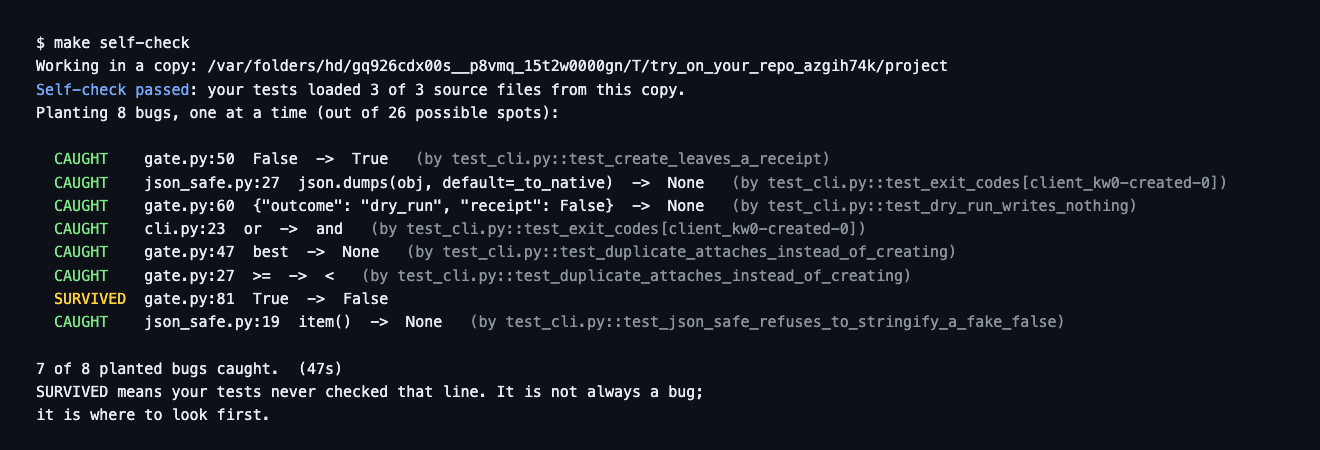
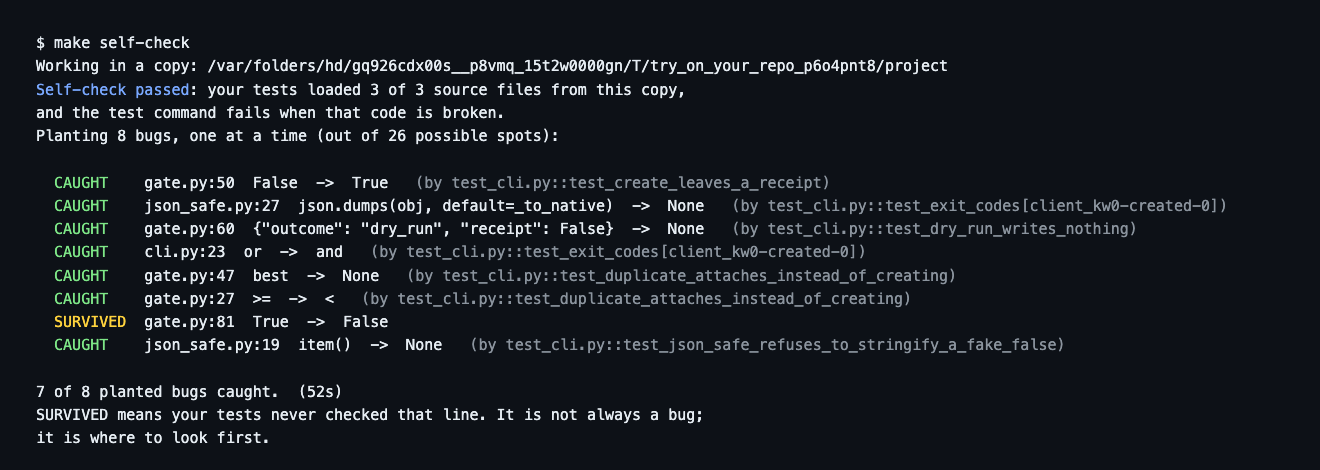
try_on_your_repo: self-check also requires the test command to fail when the loaded code is broken; trials re-run; image re-rendered

Changed region(s): [[0.0311, 0.3422, 0.9318, 0.7467], [0.0311, 0.0622, 0.7144, 0.3111], [0.0311, 0.8089, 0.528, 0.9644]]

diff --git a/gate-mutation-example/try_on_your_repo.py b/gate-mutation-example/try_on_your_repo.py
@@ -381,7 +381,27 @@ def main(argv: list[str] | None = None) -> int:
             print("Common causes: the project is installed as a package (pip install / pip install -e),")
             print("or the tests never import it. Run your tests against the source folder, then try again.")
             return 3
-        print(f"Self-check passed: your tests loaded {len(usable)} of {len(checked)} source files from this copy.")
+        # The test command must also be able to FAIL. Break every file the tests loaded; if the
+        # command still reports success (a runner that ignores the result, a wrapper that
+        # always exits 0), every planted bug would look like a survivor.
+        broken: dict[str, bytes] = {}
+        for rel in usable:
+            path = os.path.join(root, rel)
+            with open(path, "rb") as f:
+                broken[path] = f.read()
+            with open(path, "wb") as f:
+                f.write(b'raise ImportError("try_on_your_repo self-check")\n' + broken[path])
+        result, _ = run_tests(a.test, root, a.timeout)
+        for path, raw in broken.items():
+            with open(path, "wb") as f:
+                f.write(raw)
+        if result == "pass":
+            print("Self-check failed: your test command still reports success when every source file")
+            print("your tests load is broken. A planted bug could not make it fail. Make the command")
+            print("exit non-zero when a test fails, then try again.")
+            return 3
+        print(f"Self-check passed: your tests loaded {len(usable)} of {len(checked)} source files from this copy,")
+        print("and the test command fails when that code is broken.")
         if skipped:
             shown = ", ".join(skipped[:8]) + (f", and {len(skipped) - 8} more" if len(skipped) > 8 else "")
             print(f"Left out, because your tests did not load them from this copy: {shown}")

diff --git a/gate-mutation-example/test_try_on_your_repo.py b/gate-mutation-example/test_try_on_your_repo.py
@@ -440,3 +440,25 @@ def test_caught_by_names_the_test_behind_pytest_subtest_failures():
     assert tool.caught_by(fixture("pytest_subtests_fail_color.txt")) == (
         "tests/test_modern_word_boundary.py::ModernWordBoundaryTests::"
         "test_replacement_delimiters_are_budgeted_and_preserved")
+
+
+# 6. the test command must be able to FAIL (kept from the old self-check) ---------
+
+def test_a_test_command_that_always_exits_0_is_refused(tmp_path, capsys):
+    (tmp_path / "calc.py").write_text(MODULE)
+    (tmp_path / "test_calc.py").write_text(
+        "import unittest\nfrom calc import is_adult\n\n"
+        "class T(unittest.TestCase):\n"
+        "    def test_edges(self):\n"
+        "        self.assertTrue(is_adult(18))\n"
+        "        self.assertFalse(is_adult(17))\n")
+    # Loads and runs the tests, then ignores the result: exit code is always 0.
+    (tmp_path / "runner_test.py").write_text(
+        "import unittest\n"
+        "unittest.TextTestRunner().run(unittest.defaultTestLoader.discover('.', pattern='test_*.py'))\n")
+    before = snapshot(tmp_path)
+    assert tool.main([str(tmp_path), "--test", f"{sys.executable} runner_test.py"]) == 3
+    out = capsys.readouterr().out
+    assert "Self-check failed" in out and "still reports success" in out
+    assert not planted_lines(out)
+    assert snapshot(tmp_path) == before

diff --git a/gate-mutation-example/TRIALS.md b/gate-mutation-example/TRIALS.md
@@ -1,34 +1,22 @@
 # Trials of try_on_your_repo.py
 
 Real runs, recorded as printed. Run 2026-11-13 on branch `agent-features`, after the red-team fixes
-(commit 027b2f1 plus the subtest-name fix that the python-slugify run exposed). Tool run with Python 3.12.13;
-outside projects were shallow clones (`--depth 1`), each tested in its own venv (pytest 9.2.0).
+(commits 027b2f1 and 684375c, plus the "test command must be able to fail" self-check step added after them).
+Tool run with Python 3.12.13; outside projects were shallow clones (`--depth 1`), each tested in its own venv (pytest 9.2.0).
+Each outside project was run again after that last step. The caught counts and the exit codes were the same each time; the one difference (3 unnamed "by" lines) is described below.
 
 | Project | Command (after the tool's path and project) | Result | Time |
 |---|---|---|---|
-| this repo's `gate-mutation-example` (cli.py, gate.py, json_safe.py) | `make self-check` | 7 of 8 planted bugs caught, each line names its test; survivor `gate.py:81` (`"receipt": True` on the attached path, no test asserts it). Self-check: 3 of 3 files loaded from the copy | 47 s (the suite now includes the tool's own tests, so each run is longer than the 5-6 s recorded before these fixes) |
-| python-slugify @ 35aca63 | `--test "<venv>/bin/python -m pytest -q -x tests" --max 10` | 9 of 10 caught. Survivor: `tools/check_algorithms.py:40` `False -> True`. Self-check: 8 of 9 files loaded from the copy; `tools/check_dist.py` left out and named | 5 s |
+| this repo's `gate-mutation-example` (cli.py, gate.py, json_safe.py) | `make self-check` | 7 of 8 planted bugs caught, each line names its test. Survivor: `gate.py:81` (`"receipt": True` on the attached path, no test asserts it). Self-check: 3 of 3 files loaded from the copy, and the command fails when the code is broken | 52 s (the suite now includes the tool's own tests, and the self-check runs the suite 3 times before planting, so this is longer than the 5-6 s recorded before these fixes) |
+| python-slugify @ 35aca63 | `--test "<venv>/bin/python -m pytest -q -x tests" --max 10` | 9 of 10 caught. Survivor: `tools/check_algorithms.py:40` `False -> True`. Self-check: 8 of 9 files loaded from the copy; `tools/check_dist.py` left out and named | 4 s |
 | humanize @ a950045, installed with `pip install -e .` | `--test "<venv>/bin/python -m pytest -q -x --benchmark-disable tests" --max 10` | **Exit 3, nothing planted.** "Self-check failed: your tests did not load any source file from this copy." The editable install makes `import humanize` resolve to the original `src/`, not the copy | not timed (stops before planting) |
 | humanize, same venv, copy's `src` first on the path | `--test "env PYTHONPATH=src <venv>/bin/python -m pytest -q -x --benchmark-disable tests" --max 10` | 10 of 10 caught. Self-check: 7 of 7 files loaded from the copy | 7 s |
 
 What the runs showed:
 
-- **python-slugify sets `addopts = "--color=yes"`** in its `pyproject.toml`, which beats `NO_COLOR`/`PY_COLORS`.
-
-  The colour codes are stripped from the output instead, so every "by" name came out clean.
-
-- **First python-slugify run printed `(by (test name not in output))` on 3 lines.** pytest 9 reports failed
-
-  subtests as `SUBFAILED(params) path::test - msg`. `caught_by` did not know that form. Fixed, with a test on
-  the real captured output (`fixtures/pytest_subtests_fail_color.txt`); the re-run above has all 9 names.
-
-- **4 of the 10 planted bugs in python-slugify landed in `tools/`** (dev scripts, not the library) because the
-
-  tool treats every non-test `.py` file as source. `--paths slugify` would have limited it to the library. Not changed.
-
-- **My first humanize command failed its baseline** because I passed `-p no:benchmark`, which its tests need.
-
-  The tool printed the last 20 lines of the test output (`fixture 'benchmark' not found`), which made the cause obvious.
-
-- humanize's own tests need `--benchmark-disable` to run quickly; the tool does not know that, so it has to be in `--test`.
+- python-slugify sets `addopts = "--color=yes"` in its `pyproject.toml`, which beats `NO_COLOR` and `PY_COLORS`. The colour codes are stripped from the output instead, so every "by" name came out clean.
+- The first python-slugify run printed `(by (test name not in output))` on 3 lines. pytest 9 reports failed subtests as `SUBFAILED(params) path::test - msg`, and `caught_by` did not know that form. Fixed, with a test on the real captured output (`fixtures/pytest_subtests_fail_color.txt`). Both later runs have a name on all 9 CAUGHT lines.
+- 4 of the 10 planted bugs in python-slugify landed in `tools/` (dev scripts, not the library), because the tool treats every non-test `.py` file as source. `--paths slugify` would have limited it to the library. Not changed.
+- My first humanize command failed its baseline because I passed `-p no:benchmark`, which its tests need. The tool printed the last 20 lines of the test output (`fixture 'benchmark' not found`), which made the cause obvious.
+- I passed `--benchmark-disable` to humanize's tests. I did not time a run without it.
 - Windows is not covered by any run here.

diff --git a/README.md b/README.md
@@ -56,7 +56,7 @@ Can your tests fail? This plants small bugs, one at a time, in a copy of your pr
 python3 gate-mutation-example/try_on_your_repo.py /path/to/your/project --test "python3 -m pytest -q -x"
 ```
 
-First it runs a self-check: it adds one line to each source file in the copy that records the file's path when Python loads it, and checks which files your tests really loaded from the copy. Files they load from somewhere else (often an installed package) or never load are left out and named in the report, because bugs planted there would look like survivors. If no file loads from the copy, it stops instead of giving you a misleading report.
+First it runs a self-check: it adds one line to each source file in the copy that records the file's path when Python loads it, and checks which files your tests really loaded from the copy. Files they load from somewhere else (often an installed package) or never load are left out and named in the report, because bugs planted there would look like survivors. Then it breaks every file that did load and checks that your test command fails. If no file loads from the copy, or the command still passes with the code broken, it stops instead of giving you a misleading report.
 
 Just changed some code, or your agent did? Check only those lines:
 
